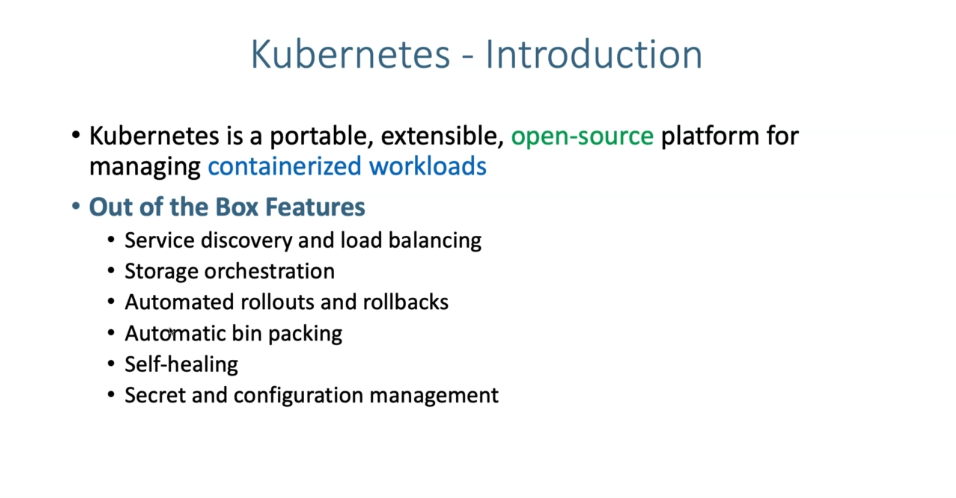
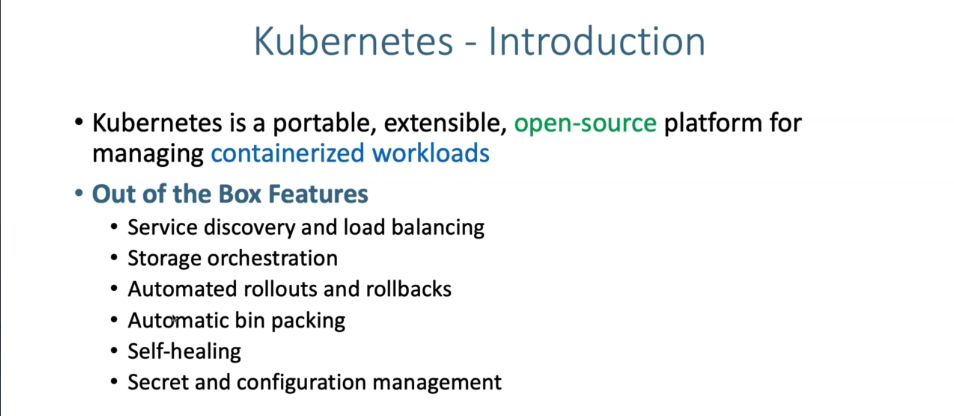
Image fix again

diff --git a/Kubernetes/K8s-Architecture.md b/Kubernetes/K8s-Architecture.md
@@ -3,7 +3,7 @@
 ## Why Kubernetes:
 
 ## <img src="./images/K8s-Architecture/media/image1.png"
-style="width:6.5in;height:3.38611in" />
+style="width:6.5in;height:2.83472in" />
 
 ## 
 
